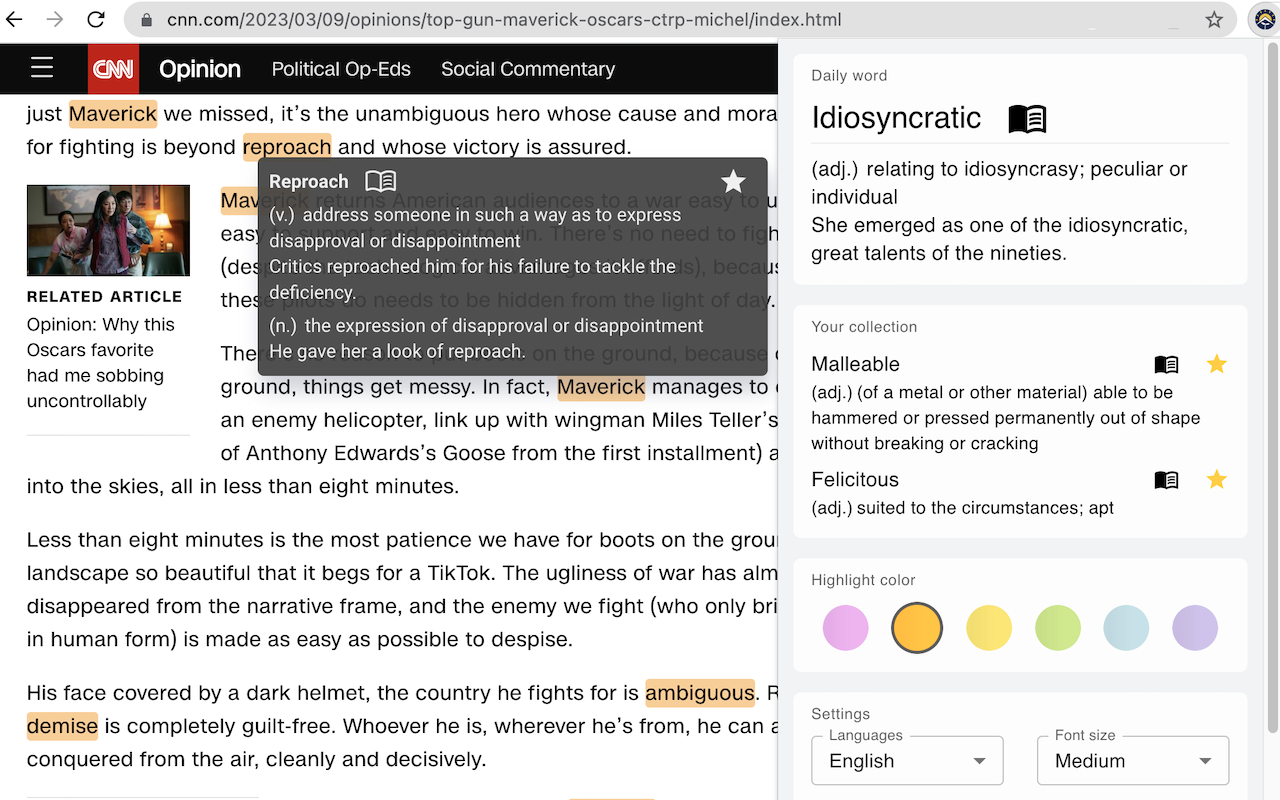
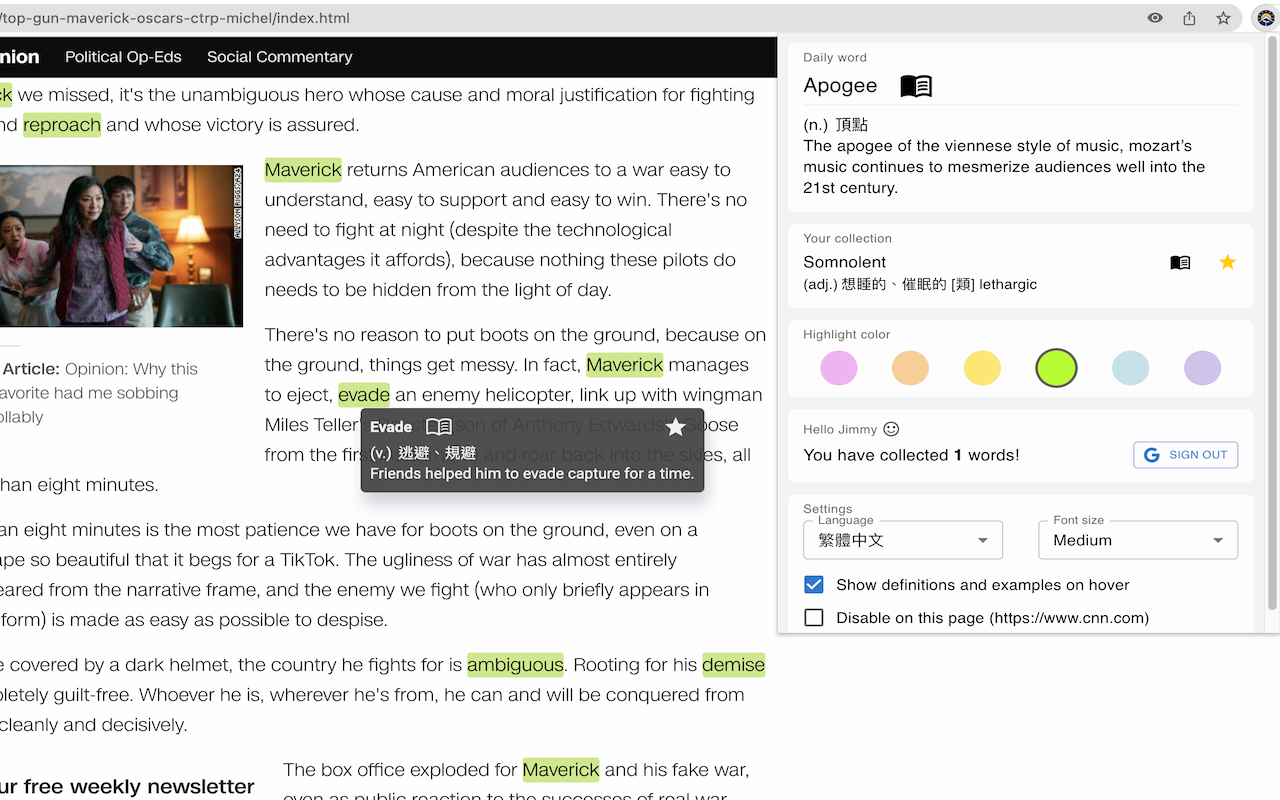
Rename ext name, revise styles and update new demo screenshots

diff --git a/src/popup/PopupView/CollectedWords.jsx b/src/popup/PopupView/CollectedWords.jsx
@@ -50,7 +50,7 @@ const CollectedWords = ({ config, handleChange }) => {
   const iconStyle = { cursor: 'pointer', fontSize: '20px', marginLeft: '6%' };
 
   return (
-    <Box style={{ maxHeight: '442px', overflowY: 'auto' }}>
+    <Box style={{ maxHeight: '245px', overflowY: 'auto' }}>
       {words.map(({ id, word, detail }, wordIdx) => (
         <Box key={id}>
           <Box style={{ display: 'flex', alignItems: 'center' }}>

diff --git a/src/popup/PopupView/index.jsx b/src/popup/PopupView/index.jsx
@@ -81,7 +81,7 @@ const PopupView = () => {
 
   return (
     <BaseWrapper>
-      <Stack spacing={2}>
+      <Stack spacing={1.5}>
         <Section className='daily-word'>
           <SectionTitle>Daily word</SectionTitle>
           <DailyWord language={state.language} />

diff --git a/src/popup/PopupView/Section.jsx b/src/popup/PopupView/Section.jsx
@@ -6,7 +6,7 @@ const Section = ({ children }) => (
   <Box
     sx={{
       backgroundColor: 'rgb(253 253 253)',
-      padding: '16px',
+      padding: '14px',
       borderRadius: '6px',
       border: '0px',
     }}

diff --git a/src/popup/PopupView/BaseWrapper.jsx b/src/popup/PopupView/BaseWrapper.jsx
@@ -5,7 +5,7 @@ import { Box } from '@mui/material';
 const BaseWrapper = ({ children }) => (
   <Box
     sx={{
-      padding: '12px',
+      padding: '10px',
       backgroundColor: '#f1f3f4',
     }}
   >

diff --git a/README.md b/README.md
@@ -1,15 +1,21 @@
-# Vocabulary Highlighter
+# VocaBoost - GRE Vocabulary Highlighter
 
 Install this extension on [chrome web store](https://chrome.google.com/webstore/detail/gre-vocabulary-highlighte/gfkmbmplhjdoejicgmaldndkcnnpplho).
 
 The goal of this project is to assist non-native English speakers in preparing for the GRE exam. When a user is browsing webpages, all the GRE vocabularies are highlighted. A popup window with definitions, examples, and a link to the Cambridge Dictionary is displayed when the mouse hovers/clicks the highlighted word.
 
-Users can add/remove words from their collection by clicking the star icon in the popup window, and review their word list by clicking the extension's icon in the browser toolbar.
+Users can add/remove words from their collection by clicking the star icon, and review their word list by clicking the extension's icon in the browser toolbar.
+
+Users can login with Google account (just click the button and they are good to go) to save all the collected words and setting!
 
 Users can also change the highlight color, the popup window's font size, and the language of the dictionary by clicking the extension icon on the toolbar.
 
-Currently, there are about 1500 most common GRE vocabulary words collected.
+There are about 1500 most common GRE vocabulary words collected.
 
 ## Demo
 
 ![Screenshot 01](demo/demo01.png)
+
+![Screenshot 02](demo/demo02.png)
+
+![Screenshot 03](demo/demo03.png)
